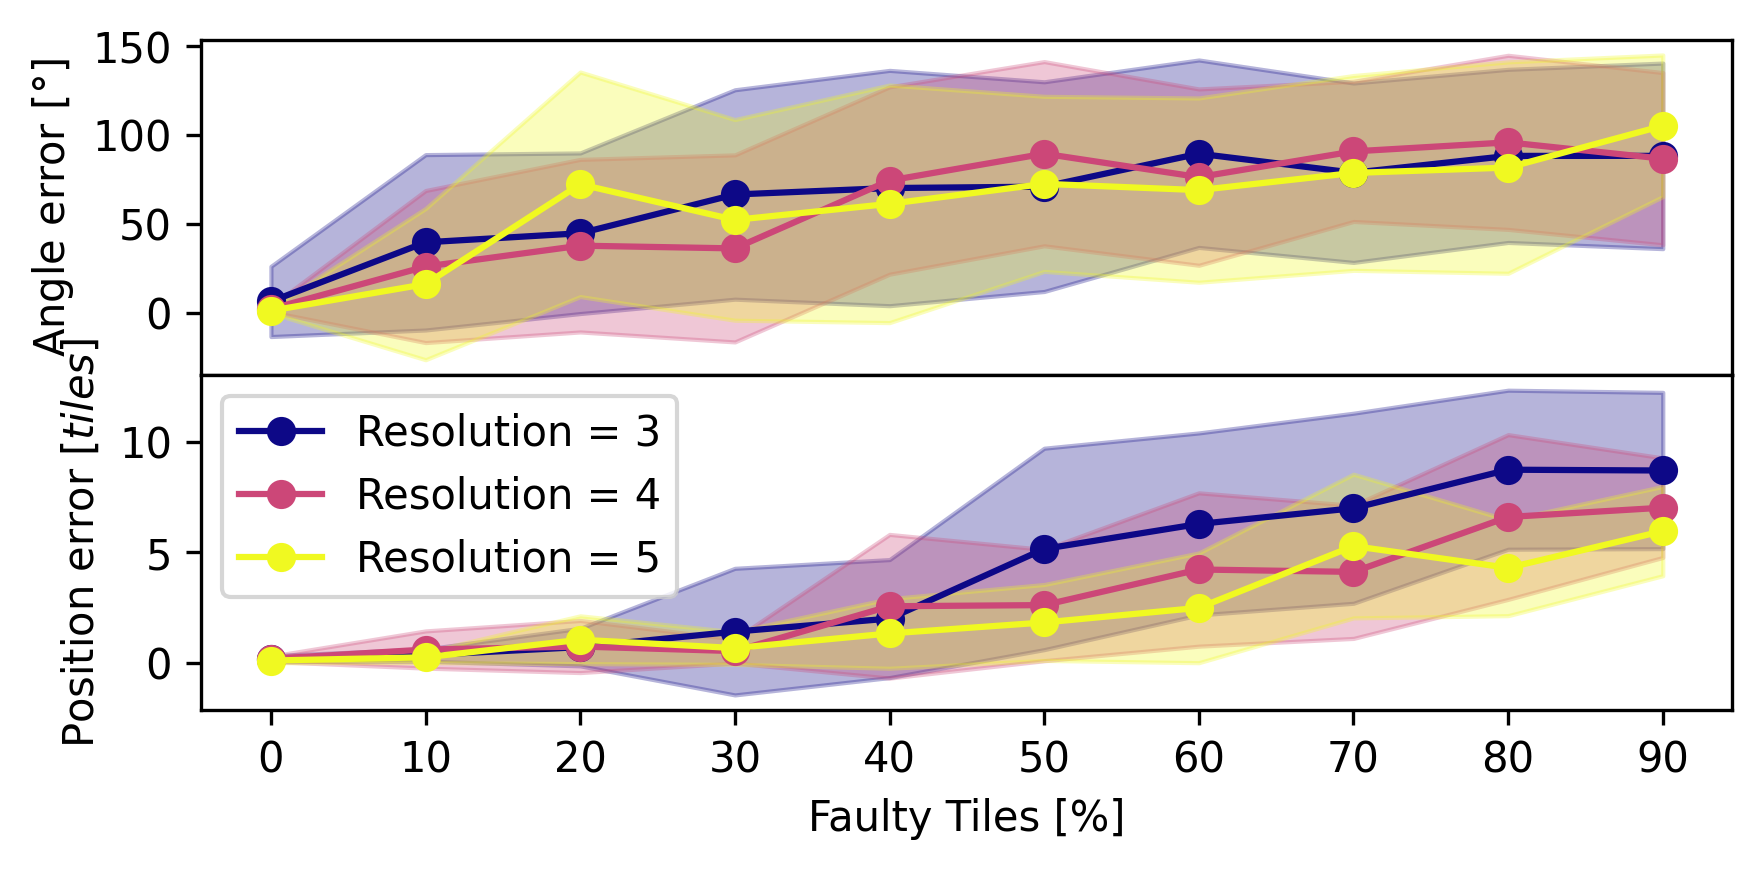
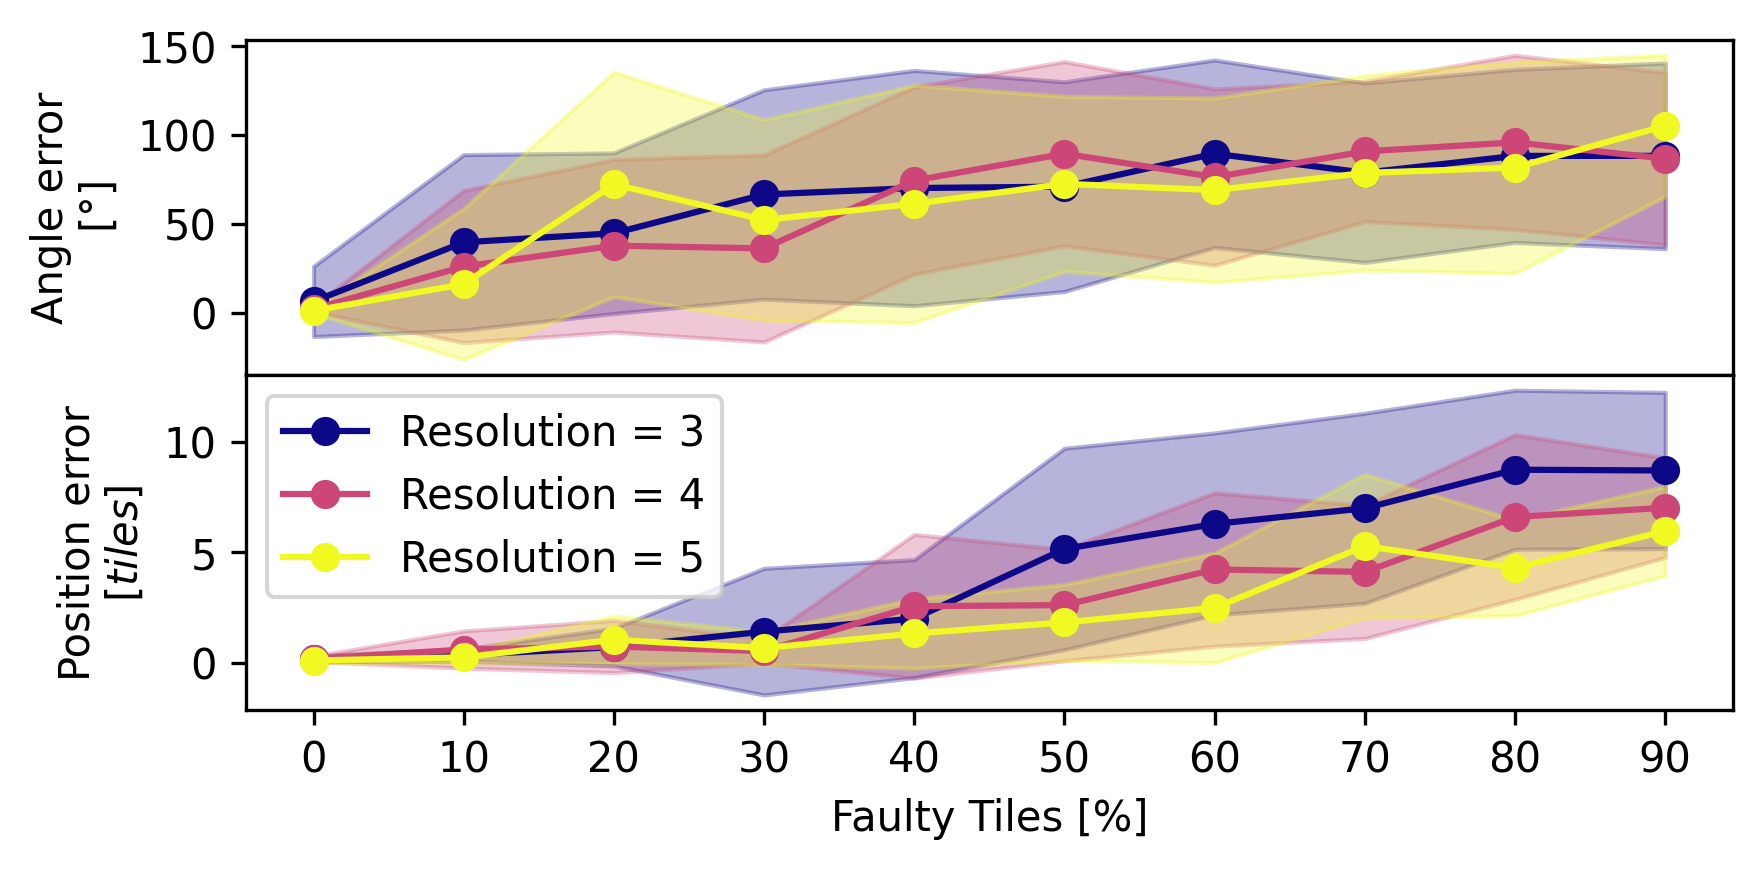
Images colors

diff --git a/Visuals/Figures_paper.py b/Visuals/Figures_paper.py
@@ -175,6 +175,14 @@ class COLORS:
 
 def figure_environment():
 
+    colors = plt.cm.plasma(np.linspace(0, 1, 4))
+    print(colors)
+    #colors to hex
+    hex_colors = []
+    for color in colors:
+        hex_colors.append('#%02x%02x%02x' % (int(color[0]*255), int(color[1]*255), int(color[2]*255)))
+    print(hex_colors)
+
     N = 10
     M = 8
     
@@ -579,7 +587,7 @@ def figure_experiment_resolution():
     side = 6
     fig, ax1 = plt.subplots(figsize=(side, side/3))
     colors = plt.cm.plasma(np.linspace(0, 1, 3))
-    colors = [COLORS.CONTACT_TILE, COLORS.TARGET_TILE]
+    #colors = [COLORS.CONTACT_TILE, COLORS.TARGET_TILE]
     ax1.plot(angle_res, angle_means, marker='o', c=colors[0])
     fillup = [m - s for m, s in zip(angle_means, angle_std_devs)]
     filldown = [m + s for m, s in zip(angle_means, angle_std_devs)]
@@ -681,6 +689,7 @@ def figure_experiment_faulty():
 
     fig, axes = plt.subplots(nrows=2, ncols=1, sharex=True, gridspec_kw=gridspec_kw)
     colors = plt.cm.plasma(np.linspace(0, 1, len(resolutions)))
+    #colors = [COLORS.CONTACT_TILE, COLORS.OBJECT, COLORS.GRID]
     #set size of figure
     fig.set_size_inches(6, 3)
 
@@ -702,8 +711,8 @@ def figure_experiment_faulty():
         axes[1].fill_between(dead_tiles, fillup, filldown, alpha=0.3, color=colors[i])
 
 
-    axes[0].set_ylabel('Angle error [$°$]')
-    axes[1].set_ylabel('Position error [$tiles$]')
+    axes[0].set_ylabel('Angle error\n[$°$]')
+    axes[1].set_ylabel('Position error\n[$tiles$]')
     axes[1].set_xlabel('Faulty Tiles [%]')
     #axes[0].legend(loc='upper left')
     axes[1].legend(loc='upper left')
@@ -723,11 +732,11 @@ def figure_experiment_faulty():
 
 
 if __name__ == '__main__':
-    #figure_environment()
+    figure_environment()
     #figure_trajectory()
     #figure_translation_vector()
     #figure_rotation_vector()
     #figure_resolution()
     
-    figure_experiment_resolution()
+    #figure_experiment_resolution()
     #figure_experiment_faulty()
